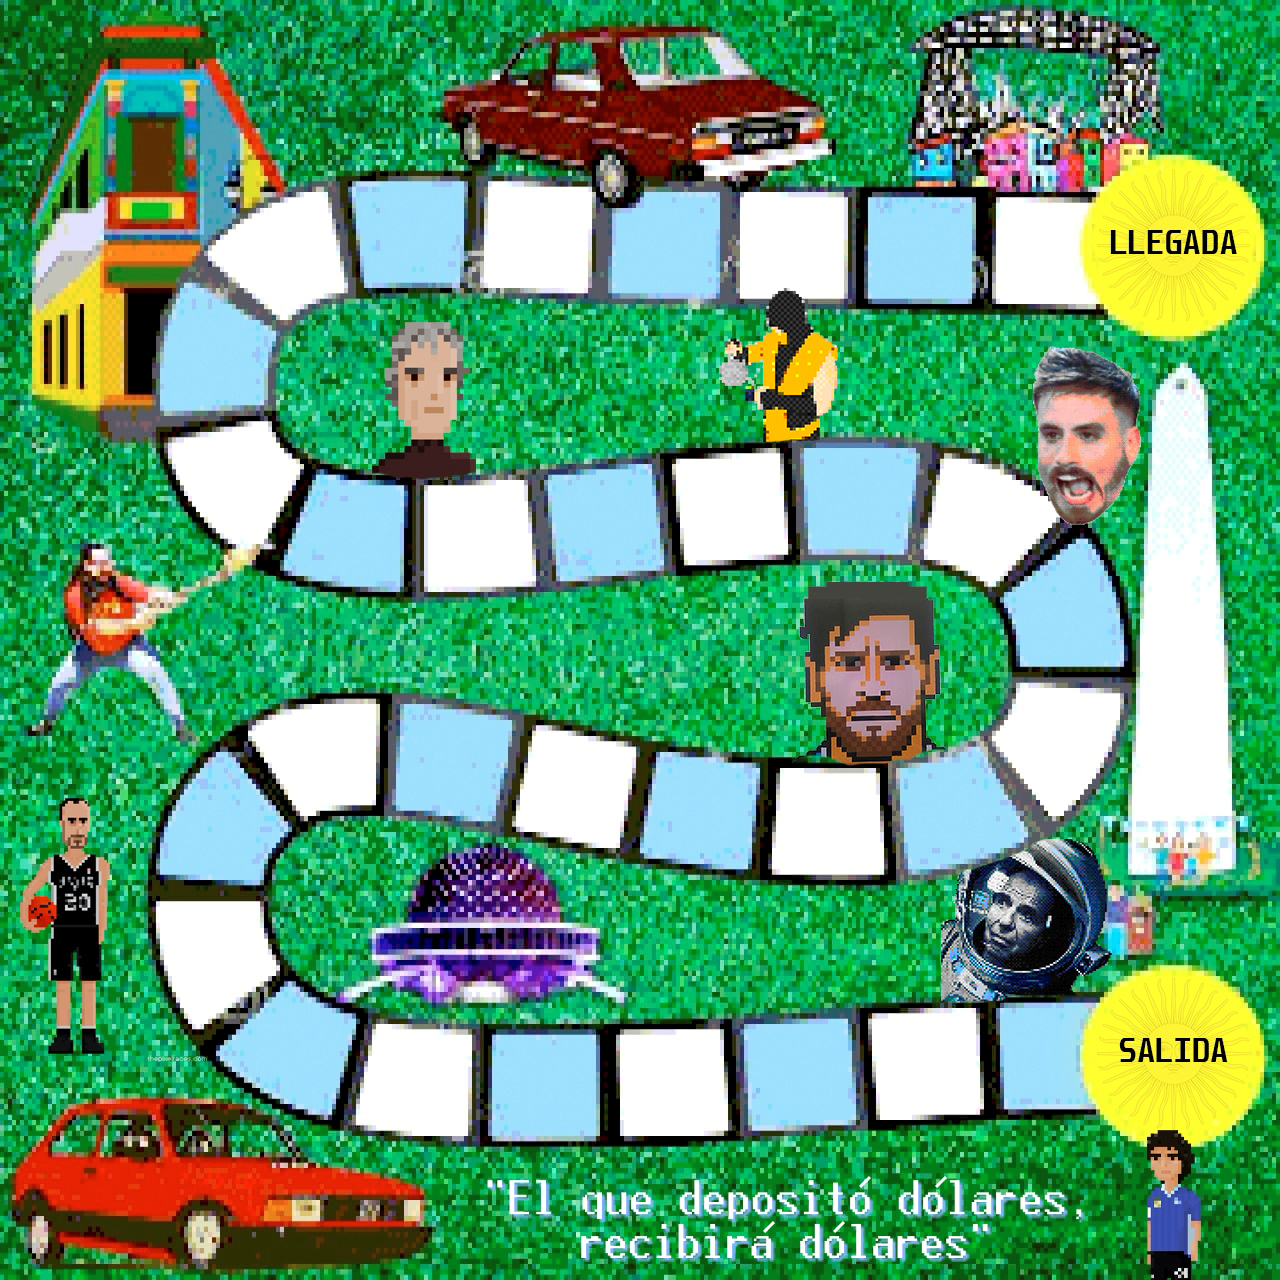
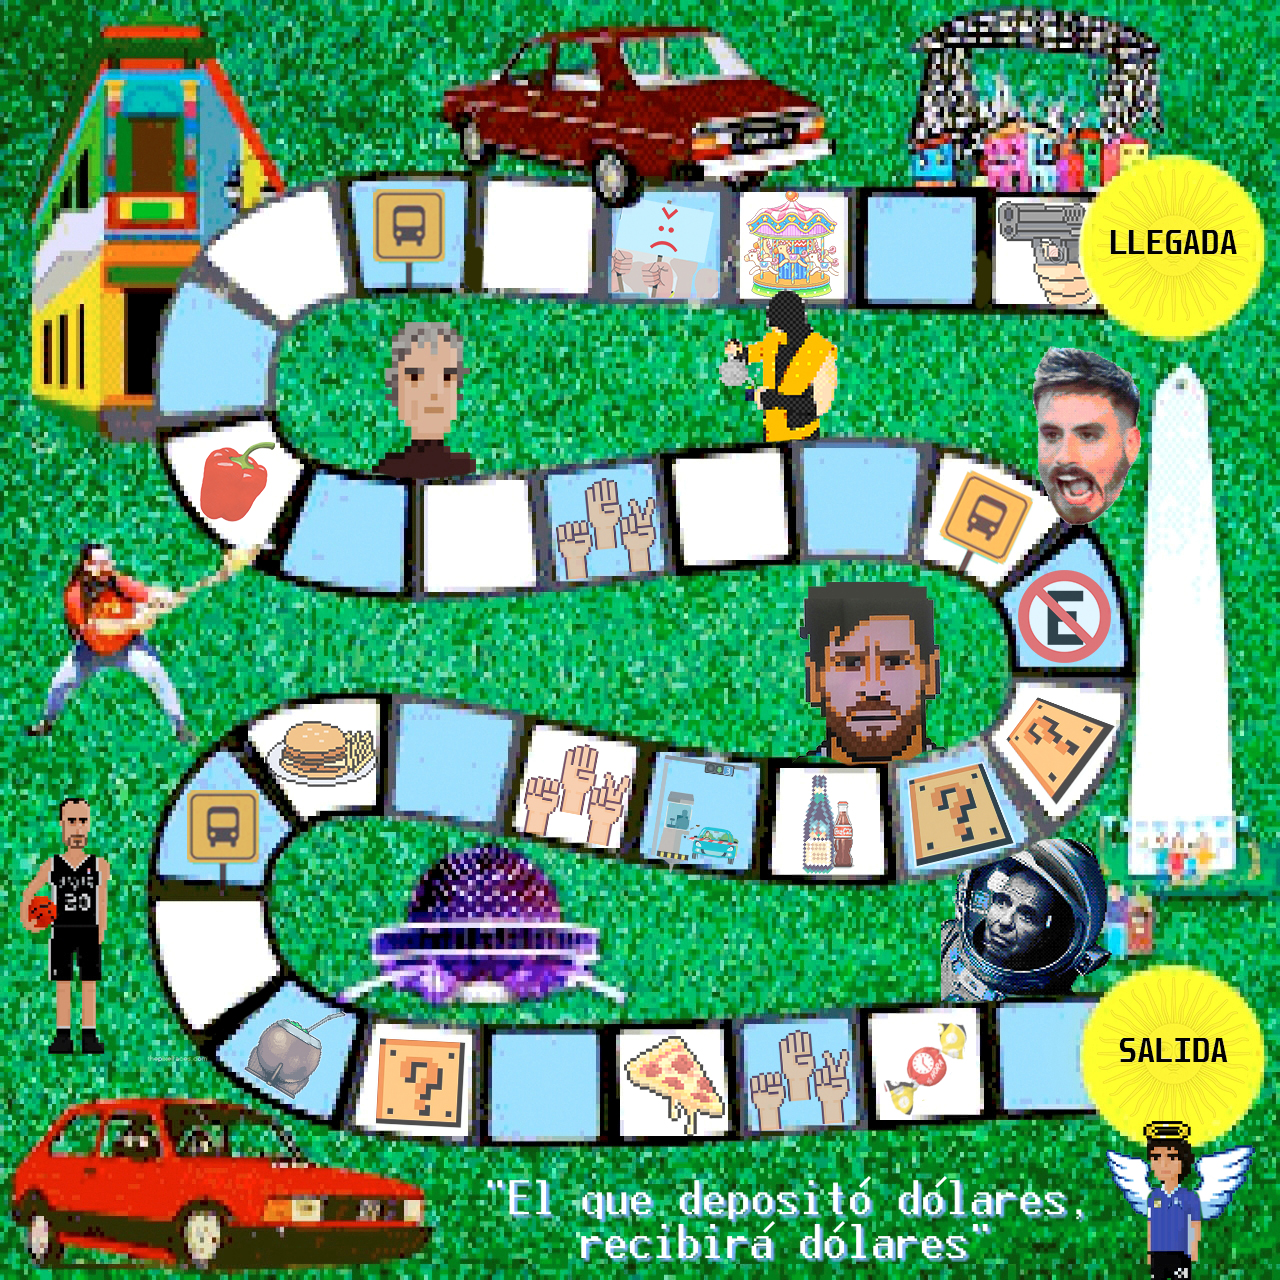
Agrego glosario dentro del juego

diff --git a/README.md b/README.md
@@ -8,7 +8,7 @@ En este juego, las estrellas participaran de una carrera por nuestra querida ave
 - **Moria "Si queres llorar, llora !" Casan**
 - **Susana "Pero vivooos???" Gimenez**
 
-Tenemos la participacion especial de **Guido "A ver la repe" Kaczka**, con sus relatos y comentarios a lo largo de la carrera.
+Tenemos la participacion especial de **Guido "A ver la repe" Kaczka**, con sus relatos y comentarios a lo largo de la carrera. Y también de **Silvio "El seductor del siglo" Soldán**, que comenta si ganaste, perdiste o empataste en un minijuego.
 
 ---
 
@@ -20,6 +20,8 @@ Pueden ingresar con la carrera ya comenzada e intentar ser el mejor, aunque haya
 Para avanzar, se debe presionar la tecla **T**, lanzando un dado que indicara las casillas que avanzara la estrella.
 
 A lo largo del juego, hay premios que ayudaran a la estrella a llegar mas rapido al final de la avenida. Pero tambien existen castigos que se opondran en el camino y que complicaran las cosas. Estos definen automaticamente cuantas casillas se avanzara o retrocedera.
+
+Para conocer qué significan estos eventos, podés apretar la tecla **G** para que aparezca en pantalla el **glosario**, el cual detallará el motivo de tu recompensa o castigo.
 
 ---
 
